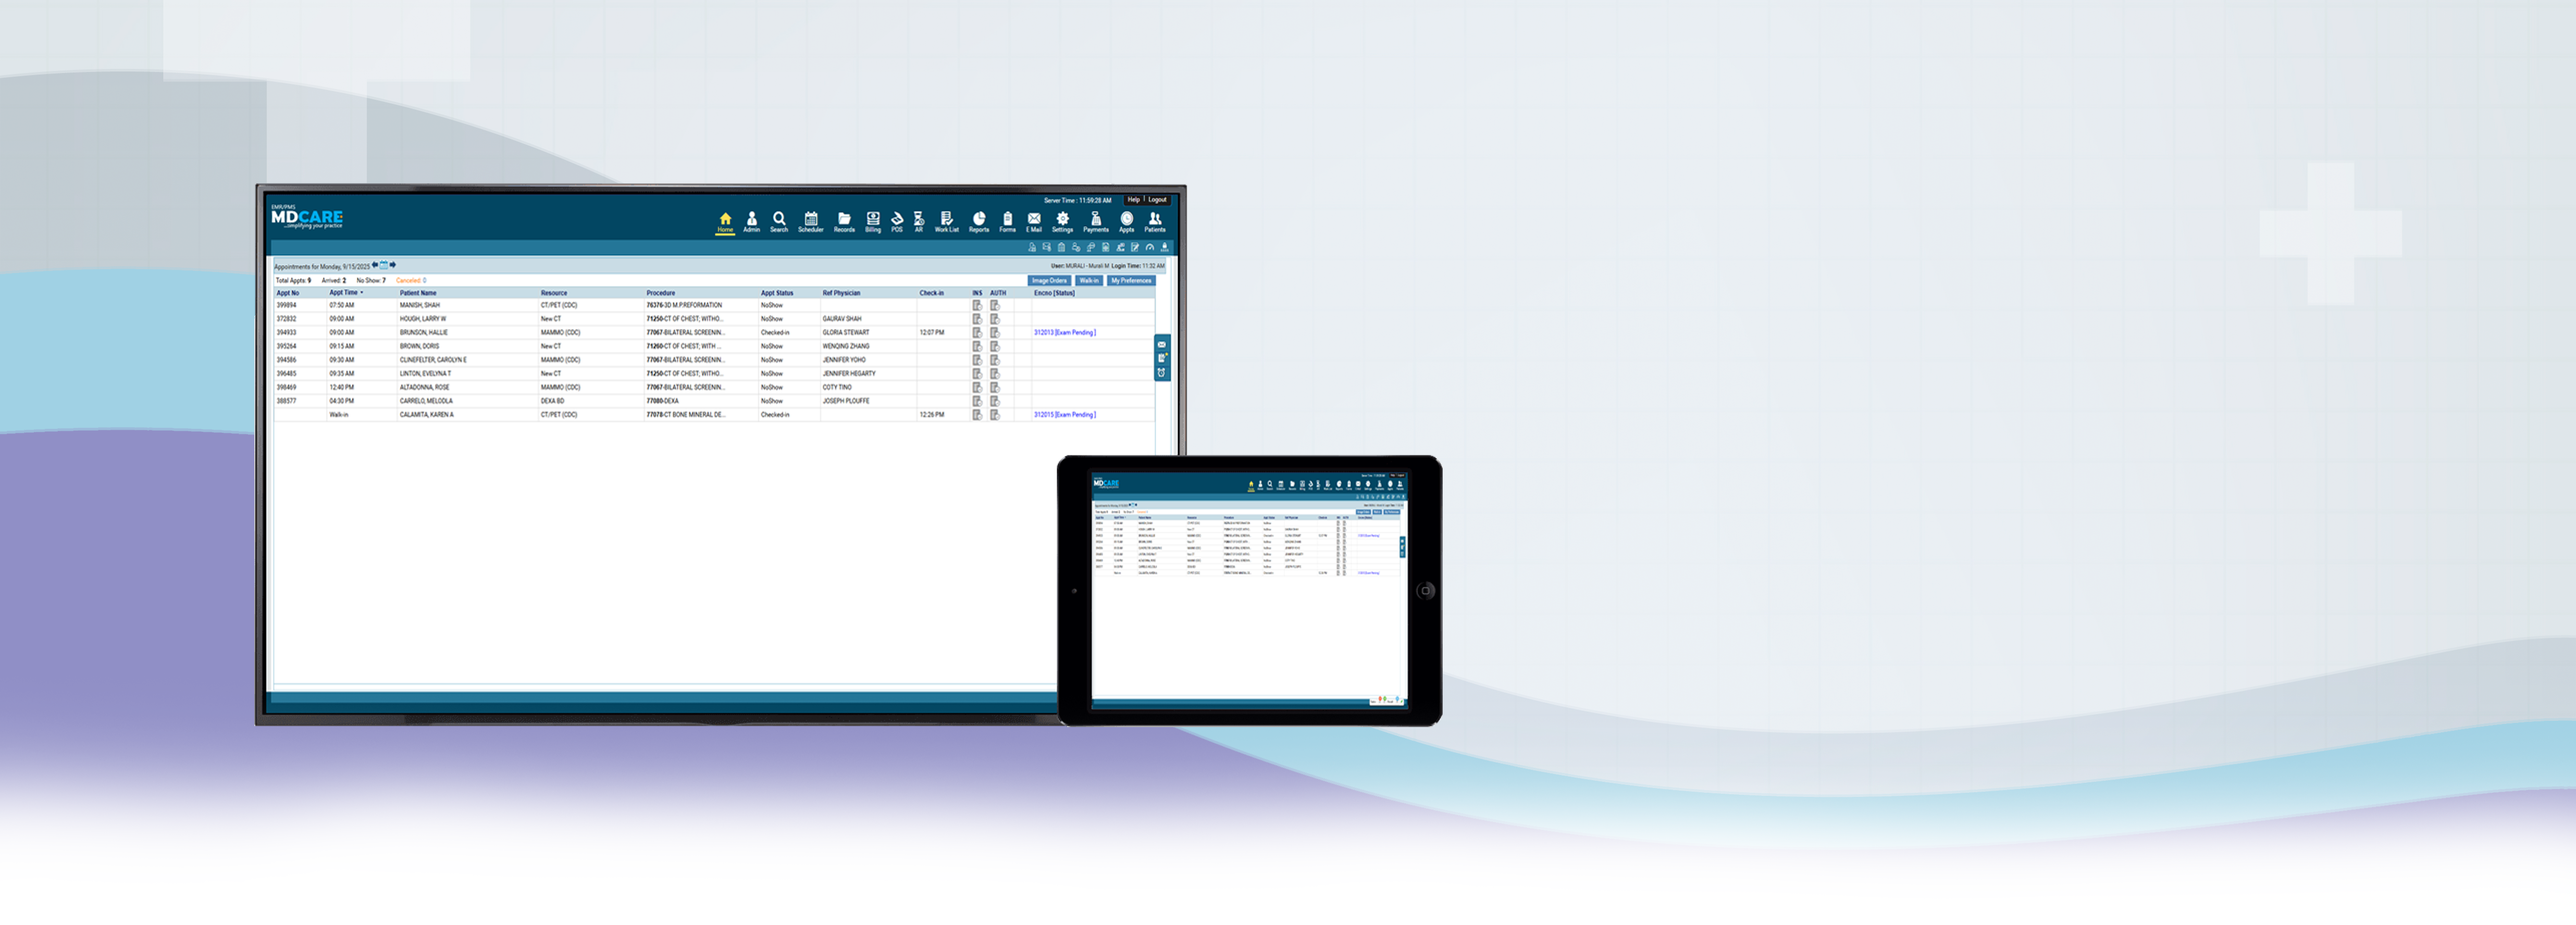
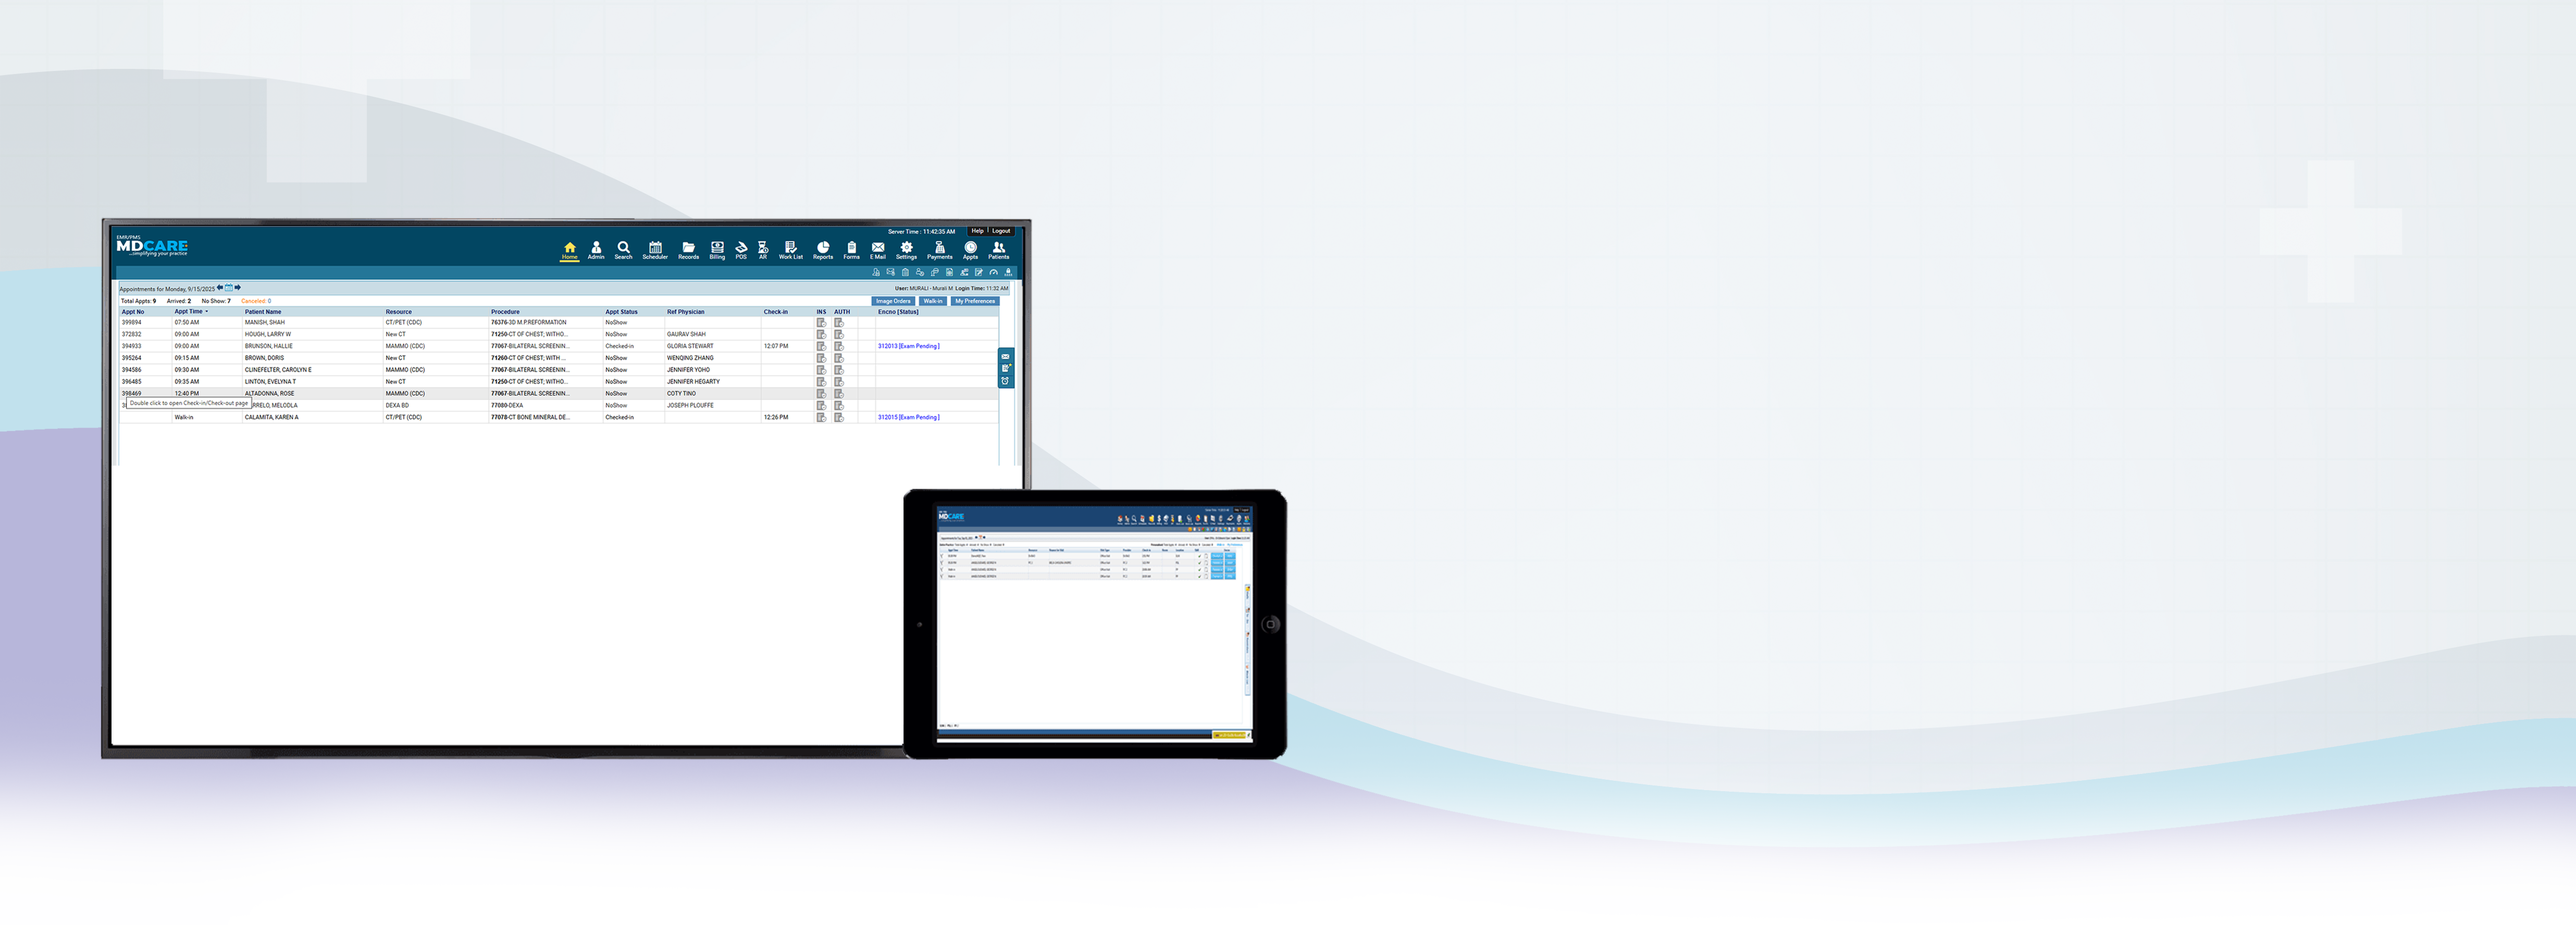
new
new

Changed region(s): [[0.0, 0.1858, 0.5918, 0.8671], [0.8099, 0.7742, 1.0, 0.8671]]

diff --git a/mdcare2/index.html b/mdcare2/index.html
@@ -122,7 +122,7 @@
                     <!-- <img src="img/slider-2-mobile.jpg" class="img-fluid w-100 d-lg-none d-block" alt="Image" /> -->
                     <div class="carousel-caption">
                         <div class="col-5"></div>
-                        <div class="carousel-caption-content p-3 col-5 text-lg-start">
+                        <div class="carousel-caption-content  col-7 text-lg-start">
                             <h1 class="display-4 text-capitalize text-dark mb-4 wow fadeInUp fw-normal" data-wow-delay="0.1s">
                                 <span class="text-secondary fw-bold">MDCare PMS</span><br />
                                 <span class="fs-2 fw-normal">
@@ -139,7 +139,7 @@
                     <!-- <img src="img/slider-1-mobile.jpg" class="img-fluid w-100 d-lg-none d-block" alt="Image" /> -->
                     <div class="carousel-caption">
                         <div class="col-5"></div>
-                        <div class="carousel-caption-content p-3 col-7 text-lg-start">
+                        <div class="carousel-caption-content  col-7 text-lg-start">
                             <h1 class="display-4 text-capitalize text-dark mb-4 wow fadeInUp fw-normal" data-wow-delay="0.1s">
                                 <span class="text-secondary fw-bold">2025 MIPS certified</span><br />
                                 <span class="fs-2 fw-normal">
@@ -158,7 +158,7 @@
                     <!-- <img src="img/slider-1-mobile.jpg" class="img-fluid w-100 d-lg-none d-block" alt="Image" /> -->
                     <div class="carousel-caption">
                         <div class="col-5"></div>
-                        <div class="carousel-caption-content p-3 col-7 text-lg-start">
+                        <div class="carousel-caption-content  col-7 text-lg-start">
                             <h1 class="display-4 text-capitalize text-dark mb-4 wow fadeInUp fw-normal" data-wow-delay="0.3s">
                                 <span class="text-secondary fw-bold"> Certified EMR / PMS</span><br />
                                 <span class="fs-2 fw-normal">

diff --git a/mdcare2/css/style.css b/mdcare2/css/style.css
@@ -1450,7 +1450,13 @@ a.btn.btn-primary.btn-lg-square.back-to-top {
 }
 
 
-
+.carousel-caption-content{
+	    align-items: start;
+    display: flex;
+    justify-content: start;
+    height: 100%;
+	padding-top: 150px;
+} 
 
 
 
